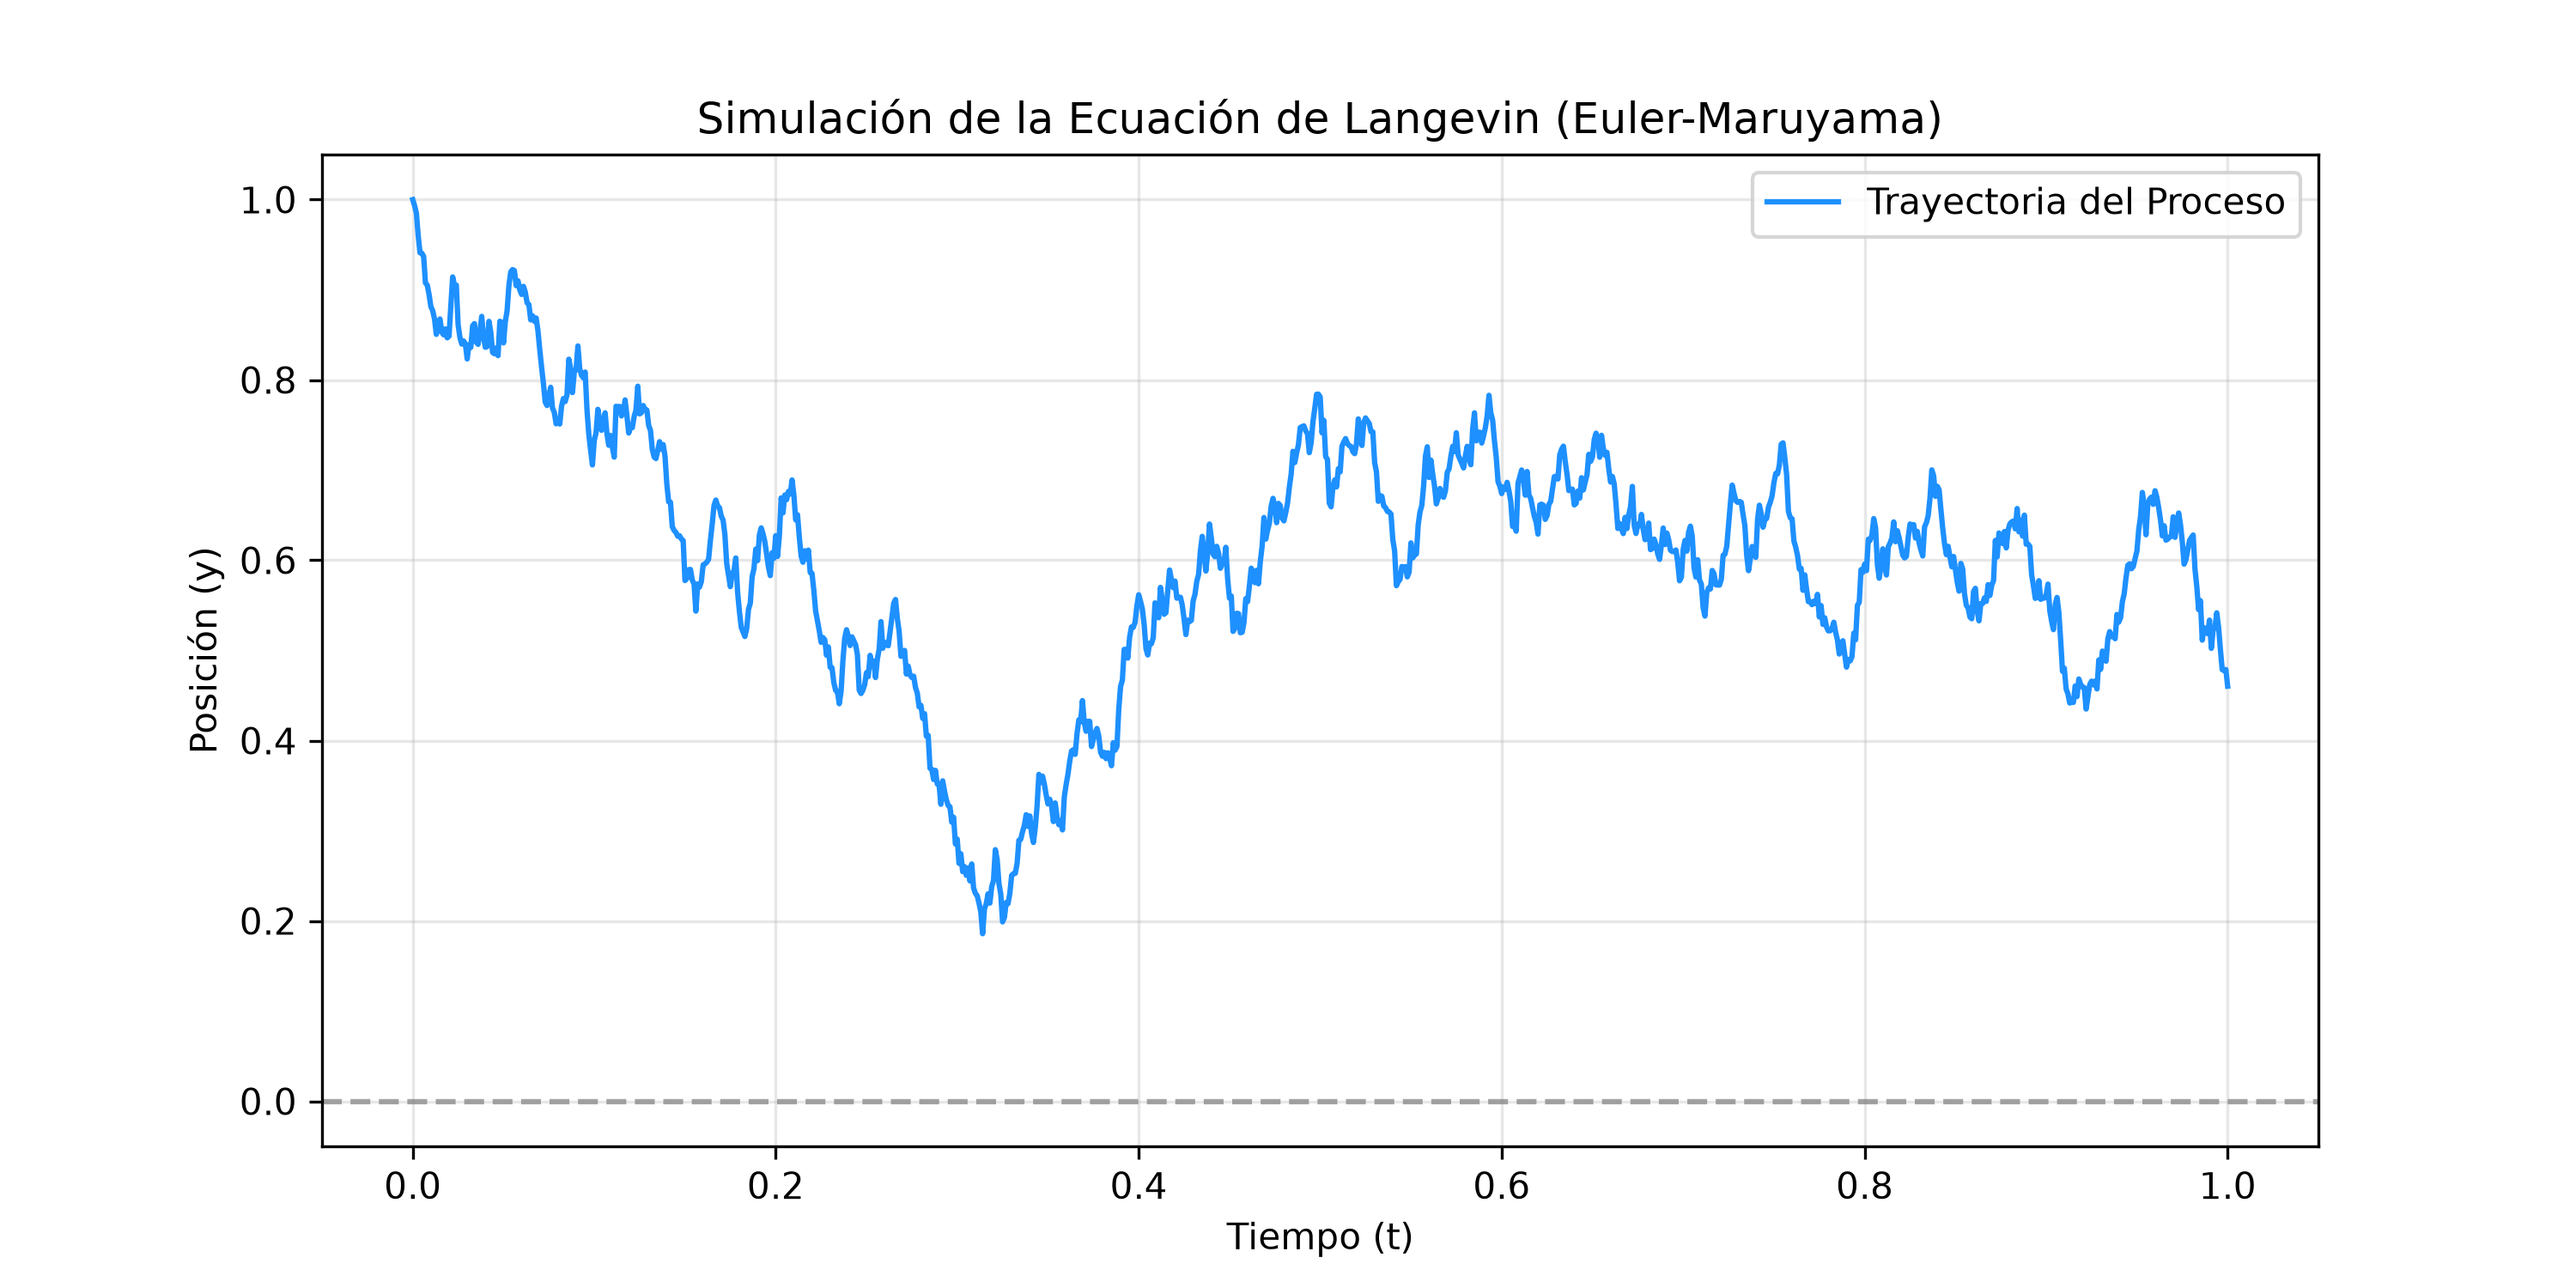
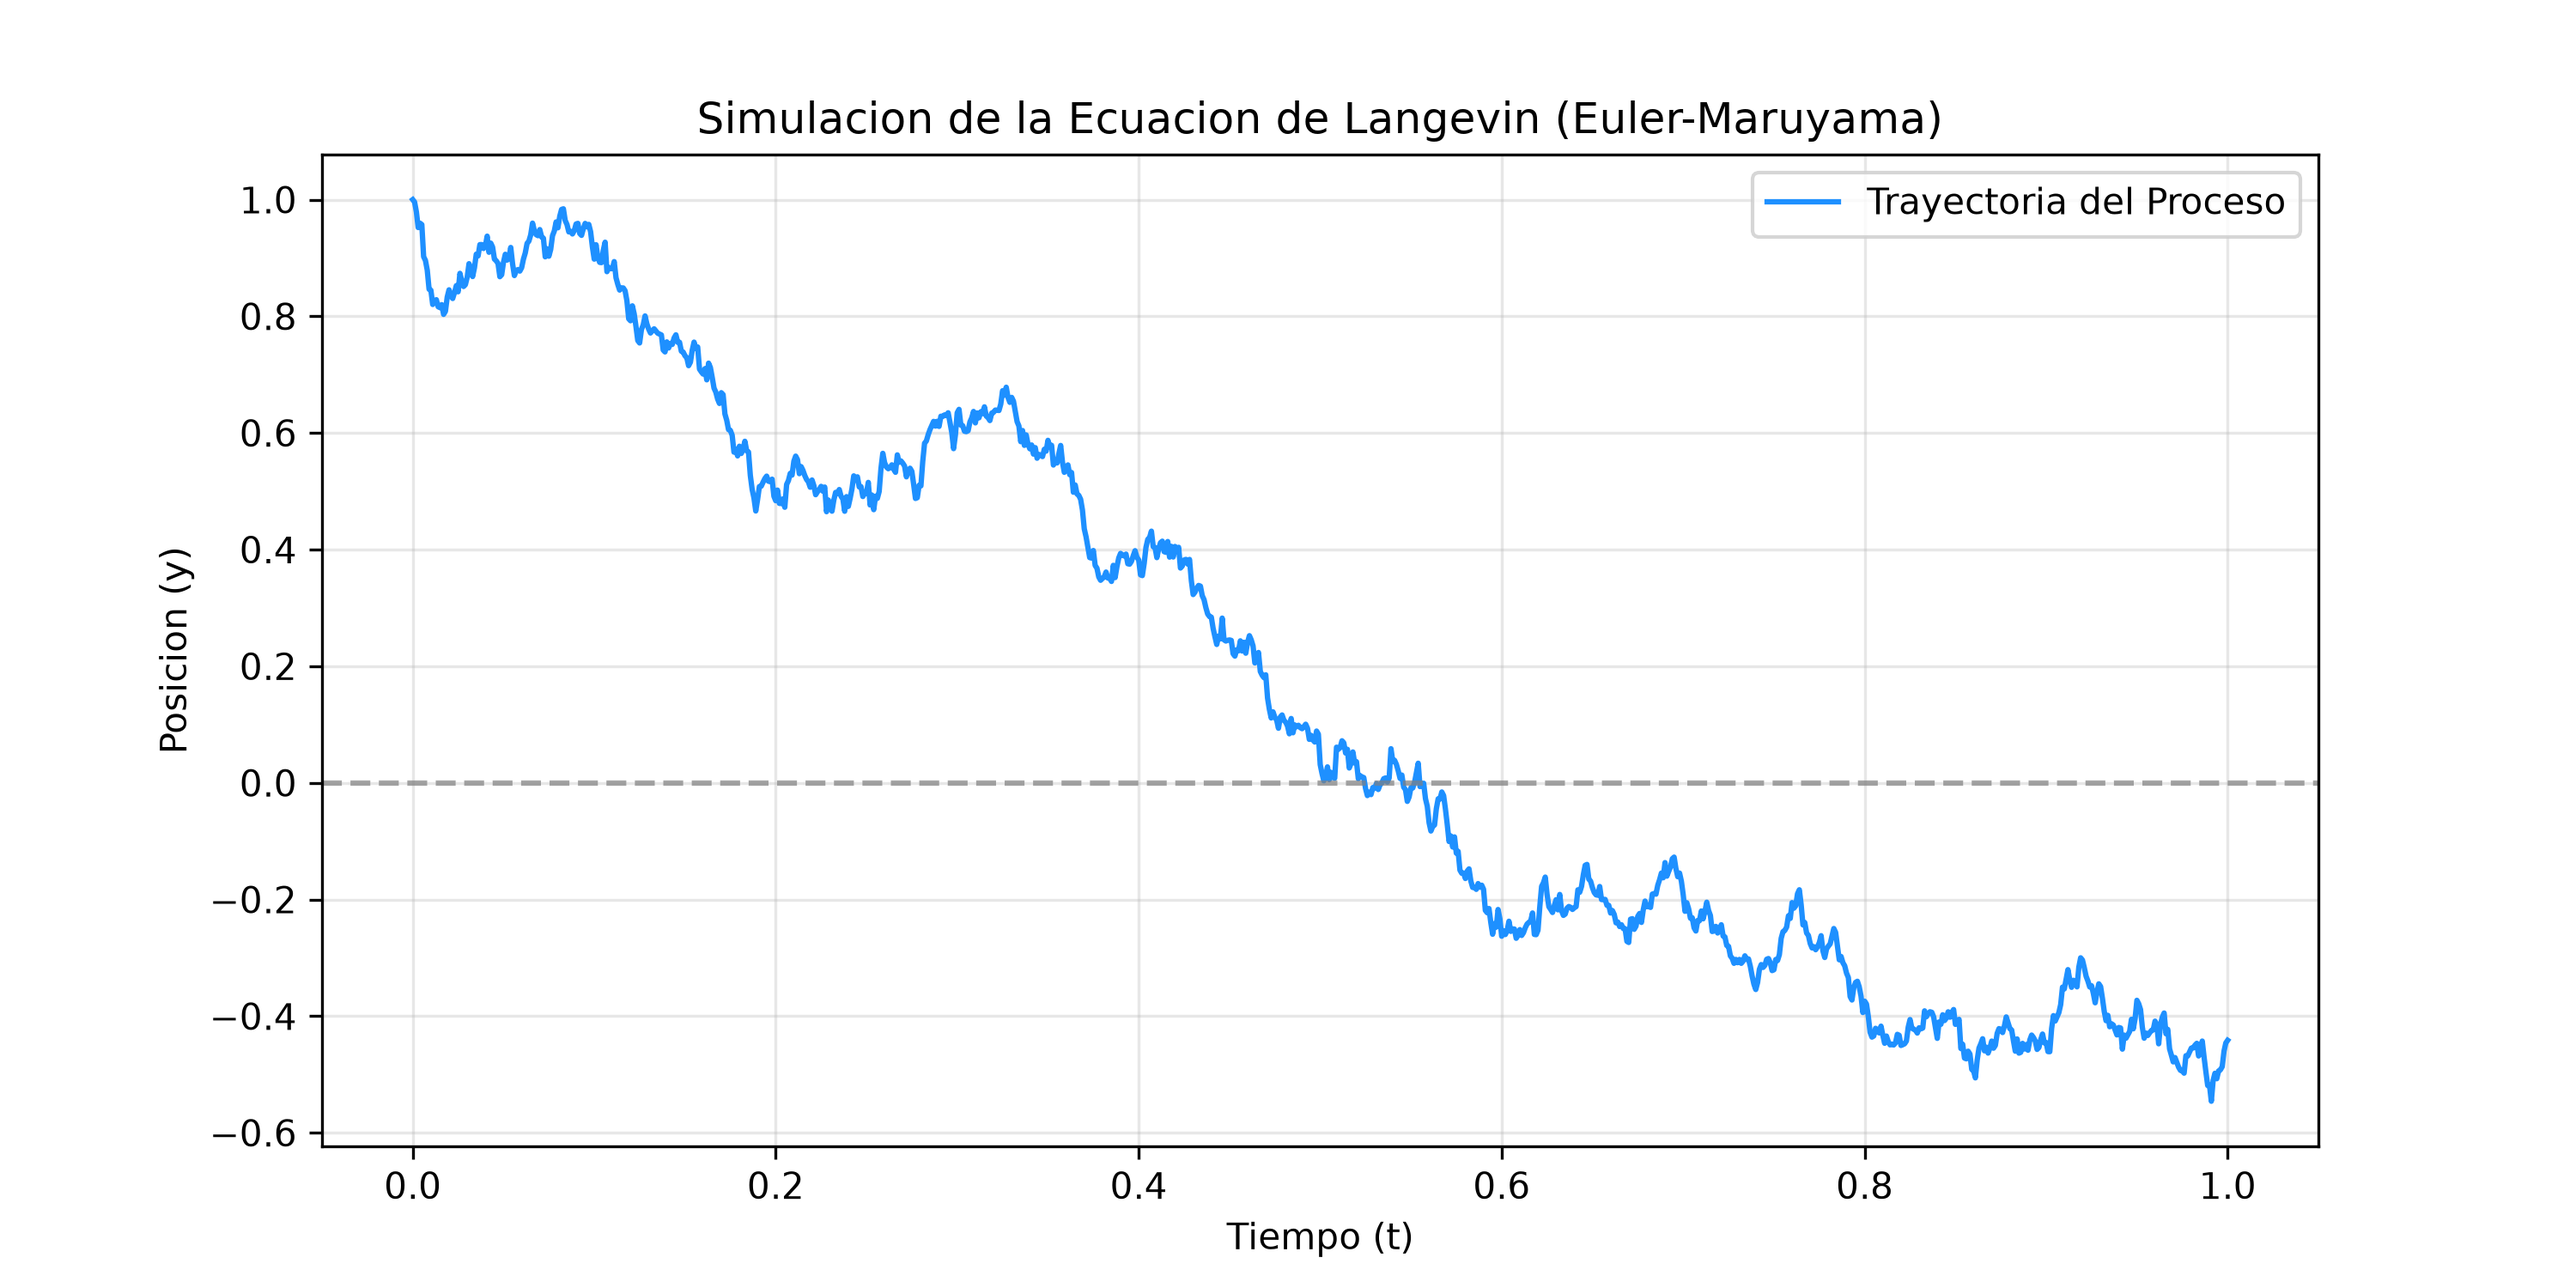
Subir grafica definitiva de Langevin

diff --git a/simulacion_langevin.py b/simulacion_langevin.py
@@ -1,8 +1,8 @@
 import numpy as np
 import matplotlib.pyplot as plt
 
-# Parámetros del problema (puedes ajustar r y sigma a tu gusto)
-r = 2.0          # Constante de amortiguamiento (atracción a cero)
+# Parámetros del problema (Ejemplo 9.13)
+r = 2.0          # Constante de amortiguamiento
 sigma = 0.5      # Parámetro de volatilidad / ruido espacial
 T = 1.0          # Tiempo final de la simulación
 N = 1000         # Número de pasos de tiempo
@@ -21,22 +21,19 @@ for i in range(N):
     # Incremento del movimiento Browniano: Delta B = sqrt(dt) * Z
     dB = np.sqrt(dt) * Z
     
-    # Ecuación discreta 9.26
-        w[i+1] = w[i] - r * w[i] * dt + sigma * dB
+    # Ecuación discreta 9.26 corregida
+    w[i+1] = w[i] - r * w[i] * dt + sigma * dB
 
 # Graficar la trayectoria resultante de la ecuación
 plt.figure(figsize=(10, 5))
 plt.plot(t, w, label='Trayectoria del Proceso', color='dodgerblue', lw=1.5)
 plt.axhline(0, color='gray', linestyle='--', alpha=0.7)
-plt.title('Simulación de la Ecuación de Langevin (Euler-Maruyama)')
+plt.title('Simulacion de la Ecuacion de Langevin (Euler-Maruyama)')
 plt.xlabel('Tiempo (t)')
-plt.ylabel('Posición (y)')
+plt.ylabel('Posicion (y)')
 plt.grid(True, alpha=0.3)
 plt.legend()
 
-# Guardar la gráfica en una imagen antes de subirla
+# Guardar la gráfica en una imagen
 plt.savefig('resultado_langevin.png', dpi=300)
 plt.show()
-
-
-
